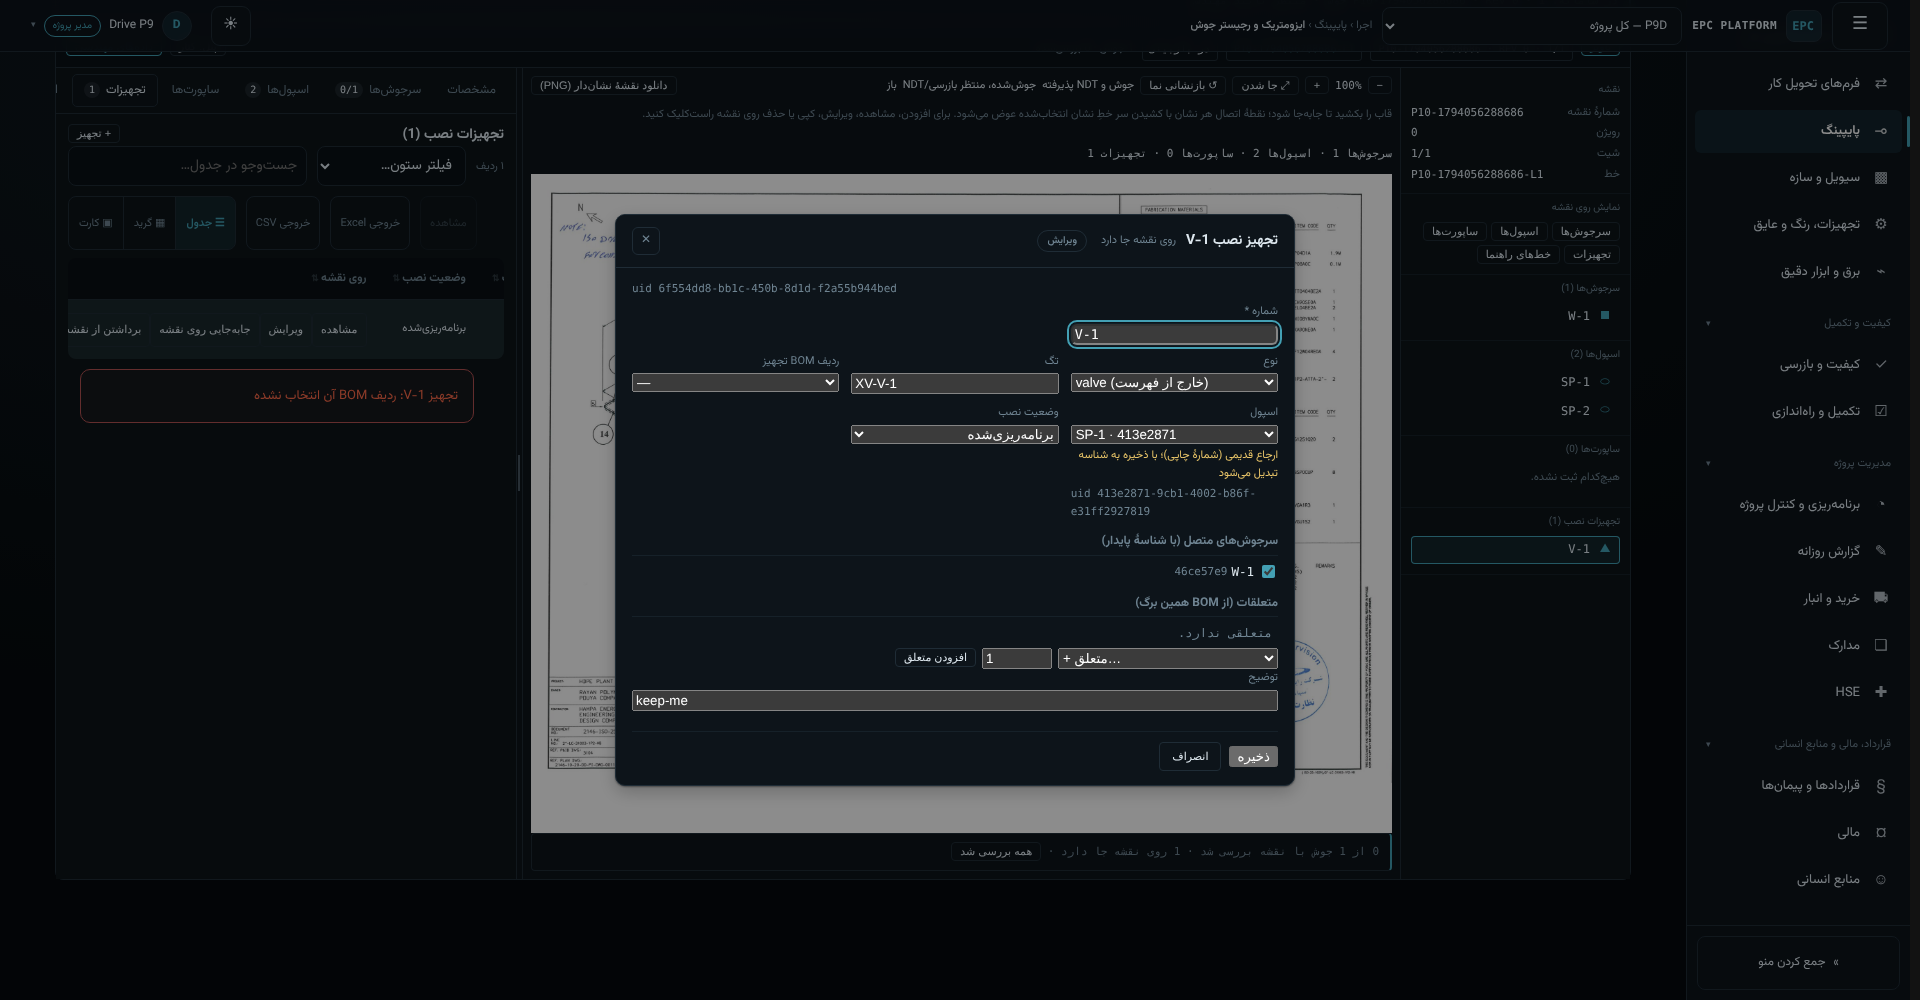
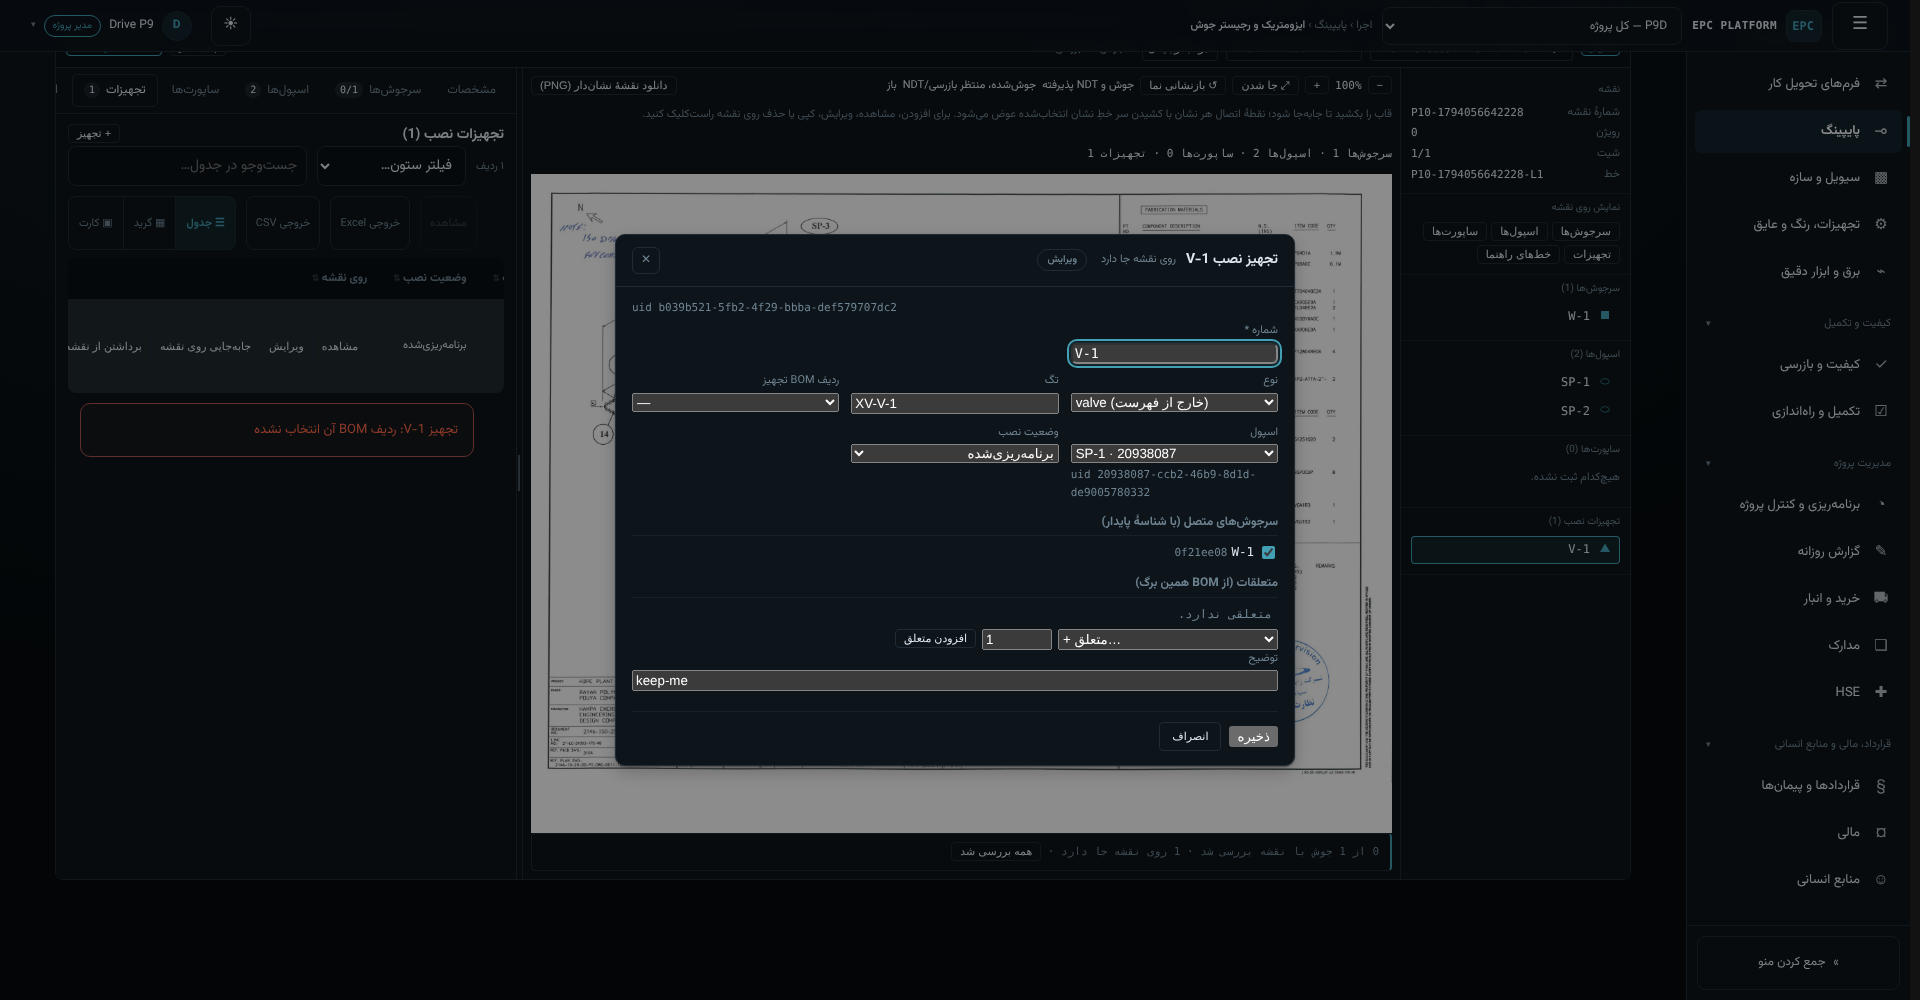
Phase 10: equipmentChecks by uid, CutForm withdraws an auto-filled spool, audit doc, shots
Claude-Session: https://claude.ai/code/session_017vX2GXP93scwE5HkdCaSej

diff --git a/components/CutForm.jsx b/components/CutForm.jsx
@@ -24,6 +24,7 @@ export default function CutForm({ mode: mode0 = "view", cut = {}, cuts = [], ite
   const [start] = useState(() => ({ piece: "", lengthMm: "", ns: "", from: "", to: "", spool: "", angle: "", note: "", material: "", schedule: "", ...cut }));
   const [d, setD] = useState(start);
   const [err, setErr] = useState("");
+  const [auto, setAuto] = useState(false);     // the spool was filled in from the end welds (not chosen by the person): it may be recomputed
   const dirty = JSON.stringify(d) !== JSON.stringify(start);
   const set = (patch) => { setErr(""); setD((x) => ({ ...x, ...patch })); };
   const ix = indexItems(items);
@@ -61,12 +62,15 @@ export default function CutForm({ mode: mode0 = "view", cut = {}, cuts = [], ite
           <select data-input={lab} data-ref-uid={uidVal} dir="ltr" value={uidVal}
             onChange={(e) => {
               const m = list.find((x) => x.uid === e.target.value);
+              if (kind === "spool") setAuto(false);
               const next = { [key]: m ? m.uid : "", [lab]: m ? String(m.no).trim() : "" };
               const merged = { ...d, ...next };
-              // the two end welds' spool, by IDENTITY: one spool → preselect it; two different ones, an unknown or an ambiguous one → leave it to the person
-              const es = kind === "weld" && !d.spoolUid ? endSpoolMarks(merged, items) : [];
-              const sp = es.length === 1 && isUid(es[0].uid) ? spools.find((s) => s.uid.toLowerCase() === es[0].uid.toLowerCase()) : null;
-              set({ ...next, ...(sp ? { spoolUid: sp.uid, spool: String(sp.no).trim() } : {}) });
+              // the two end welds' spool, by IDENTITY: one spool → preselect it; two different ones, an unknown or an ambiguous one → do not guess.
+              // A spool the PERSON chose is never touched; one this form filled in is recomputed (and withdrawn when the ends disagree).
+              const es = kind === "weld" && (!d.spoolUid || auto) ? endSpoolMarks(merged, items) : null;
+              const sp = es && es.length === 1 && isUid(es[0].uid) ? spools.find((s) => s.uid.toLowerCase() === es[0].uid.toLowerCase()) : null;
+              if (es) setAuto(Boolean(sp));
+              set({ ...next, ...(sp ? { spoolUid: sp.uid, spool: String(sp.no).trim() } : es && auto ? { spoolUid: "", spool: "" } : {}) });
             }}>
             <option value="">—</option>
             {list.map((m) => <option key={m.uid} value={m.uid}>{tag(m)}</option>)}

diff --git a/docs/audit/phase-10-equipment-spool.md b/docs/audit/phase-10-equipment-spool.md
@@ -1,0 +1,63 @@
+# Phase 10 — Equipment–Spool identity and referential integrity
+
+Baseline: master `45a8a4d` (Phases 1–9). Branch `feat/equipment-spool-identity-guards`. No migration.
+
+## 1. Audit (Step 0): where printed numbers connected things
+
+| # | Where | Before | Now |
+|---|---|---|---|
+| 1 | `equipment.attrs.spool` (`lib/sheet/markup.mjs` `ATTRS`, MarkForm, EquipmentTable) | printed number only | `attrs.spoolUid` is the relationship; `spool` is its label (refreshed) |
+| 2 | `validate()` `SP_EQUIPMENT_UNKNOWN` (`lib/engineering/validation.mjs`) | `spools.some(no === a.spool)` | `resolveRef` (uid first; legacy only if unique) → `E_SPOOL_DANGLING / E_SPOOL_AMBIGUOUS / SP_EQUIPMENT_UNKNOWN` |
+| 3 | `equipmentChecks()` (markup.mjs) | printed | uid first |
+| 4 | `dependents()` of a spool (deletion preview) | welds + cuts (Phase 9), equipment missing | + equipment (installed said); says the server decides |
+| 5 | Spool deletion | UI preview only; a save that dropped the spool mark was accepted, leaving dangling uids | **server guard** (`lib/register/spool-guard.mjs`), 409 `SPOOL_IN_USE` |
+| 6 | `endSpools()` consumer in CutForm | spool chosen with `spools.find(s => s.no === es[0])` (printed number; two spools sharing a number collapse) | `endSpoolMarks()` by identity; `endSpools()` kept for old callers |
+| 7 | `iso_equipment.spool` column (migration 098) | text snapshot of the printed number | unchanged (a label copy, no FK, no behaviour rests on it) |
+| 8 | `MarkTables` «welds of a spool» column | by printed number | by `spoolUid` (a printed number only for a weld with no uid and only when one spool has it) + equipment |
+| 9 | Revision carry `CARRY_FIELDS.weld/equipment.spool` (Phase 8) | printed label copied | uid through the explicit spool mapping |
+| 10 | `spoolChecks()` («a spool a weld names has its oval…», markup.mjs) | printed | **unchanged, advisory only**: labels are kept in sync from the uids, so it agrees; see §9 |
+| 11 | **Found by the browser drive:** the mark normalizer (`ATTR_KEYS`) silently dropped `attrs.spoolUid` of equipment and of sheet weld marks on load/save | — | `spoolUid` added to `ATTR_SNAPSHOTS` (not a form field); regression test E3b |
+
+Compatibility: payloads without `spoolUid` keep working (legacy label → uid on save only when unique); `iso_equipment`, BOM allocation, `RUN_LOCKED`, authorization, installed/tested protection are untouched.
+
+## 2. Equipment-to-spool contract
+
+* `equipment.attrs.spoolUid` — authoritative; must name a `spool` mark of the same revision (validated: dangling → `E_SPOOL_DANGLING`).
+* `equipment.attrs.spool` — label; refreshed from the spool whenever it is renumbered (page while editing, `settleWeldSpools` on save).
+* Moving = uid + label together (`assignWeldSpool`); other attributes untouched. Clearing is explicit («— بدون اسپول»).
+* Legacy label → uid only if exactly one spool has the number; several → `E_SPOOL_AMBIGUOUS` (nothing set); none → `SP_EQUIPMENT_UNKNOWN` (the existing code); a dangling uid is kept and shown, never re-pointed by its old number (test E2/S7; reverting that rule fails both).
+* Reuses `isUid/newUid/resolveRef/indexItems`; no registry.
+
+## 3. Deletion protection (authoritative)
+
+`removedSpools(previous, next)` = spools (by uid) the stored marks had and the incoming marks lack. `assertSpoolsRemovable` runs inside `prepareSheetPayload` — i.e. inside the transaction of **both** save paths (`POST /api/runs`: document locked; `POST /api/runs/[id]/edits`: run locked and `baseHash` checked first → `STALE_RUN`) — on the state about to be stored. For each removed spool it recomputes the dependents from that state: typed weld rows, sheet weld marks (incl. unlinked ones), cut pieces, equipment (all by `spoolUid`), with the register's installed/tested status. Any dependent → **409 `SPOOL_IN_USE`** with `details.spools[].dependents[] = {type, uid, no, via, status?, locked?}`; nothing is stored, detached or re-pointed. The person moves/removes the references (the form, the table), then the same deletion is accepted. The UI preview (`dependents()`, `ConfirmDialog`) is advice and says so. `GET /api/validation?spoolUid=` returns the same dependency list from the persisted register. `errorResponse` now forwards `error.details` (additive).
+
+Concurrency: each request is self-consistent and serialized by the document/run lock; test S8 runs a deletion and a new reference concurrently and ends with no dangling reference. Not weakened: `RUN_LOCKED`, authorization, allocation, equipment/accessory installed refusals.
+
+## 4. Validation Center (no second engine)
+
+Added to `lib/engineering/validation.mjs` (each with stable id, entity uid/type, revision, severity, explanation, suggested action; navigation through the existing `openFinding`): `E_SPOOL_DANGLING` (error), `E_SPOOL_AMBIGUOUS` (warning), `SP_EQUIPMENT_REFERENCE` (equipment's spool ≠ its welds' spool), `WELD_SPOOL_REFERENCE` (info: stale label; also for equipment), `SP_DELETE_DEPENDENCY` (error, **blocking**: a draft that removed a still-named spool — the server would refuse it; computed from `previous` = the saved payload). Reused: `SP_EQUIPMENT_UNKNOWN` (= the requested `E_SPOOL_UNRESOLVED`), `WELD_SPOOL_DANGLING/AMBIGUOUS` (Phase 9).
+
+## 5. UI
+
+Equipment form: spool selector by uid (number + short uid + full uid, states legacy/ambiguous/unresolved/dangling shown, explicit clear). Equipment table: label + short uid, dangling mark, button to the spool. Spool table: welds by uid + equipment. SpoolDetail: equipment (tag, type, status, connected welds as buttons, navigate). `CutForm`: spool preselected from the two end welds' spool **uid**; two different spools or an ambiguous/unknown one → not guessed; an auto-filled spool is withdrawn when the ends later disagree, a spool the person picked is never touched. The existing workspace is extended; nothing new was added.
+
+## 6. Revisions
+
+Carry of `spool` (weld and equipment): source spool uid → explicit spool mapping → the **target's** uid (+ its label); `NO_MAPPED_SPOOL`, `SPOOL_NOT_IN_TARGET`, `TARGET_HAS_VALUE` (target's own relationship preserved); status/history never carried; a source uid never appears in the target (test S9). Comparison: a spool whose number changed but whose relationship (through the mapping) did not is not a field change; a different mapped spool is `rel:spool:<uid>` (weld or equipment). Phase 8 contract unchanged.
+
+## 7. Migration decision
+
+None. Everything is additive JSON in the payload and pure code. `iso_equipment.spool` stays a label. Nothing was run on production; **migration 106's production status remains unverified and separate.**
+
+## 8. Verification
+
+`db/test/equipment-spool.mjs` (21 tests; PGlite and real PostgreSQL): identity, renumbering, reassignment, legacy unique / duplicate / dangling, deletion dependencies, installed protection, authoritative read, stale edit, concurrency, carry with mapped spool uid, target isolation, CutForm selection, normalizer regression. Guards proven by reverting: server guard off → S3–S5 fail; normalizer drops `spoolUid` → E3b; dangling falls back to number → E2, S7; carry copies source uid → R1, S9. Browser drive `tools/drive-equipment-spool.mjs` (26 checks, real PDF, dark/light/phone; shots in `phase-10-shots/`); Phase 9 drive re-run. Full-suite results on the final SHA are in the PR.
+
+## 9. Remaining limitations and risks
+
+* `spoolChecks()` («oval without welds» etc.) is still printed-number based and advisory; labels are kept in sync so it agrees, but two spools sharing a number can make it noisy.
+* A weld/cut/equipment with a legacy label only (no uid) is not a dependency for the deletion guard (it cannot be proven); validation reports its unresolved label.
+* The guard decides from the incoming payload; an API client that deletes a spool and keeps references in a *different* revision is out of scope (uids are per revision).
+* `iso_equipment.spool` and the typed register's `weld.spool` DB column are labels and can lag one save behind a renumbering made through the API only.
+* No change to extraction, geometry, BOM capacity rules, authorization, or the revision lifecycle.
